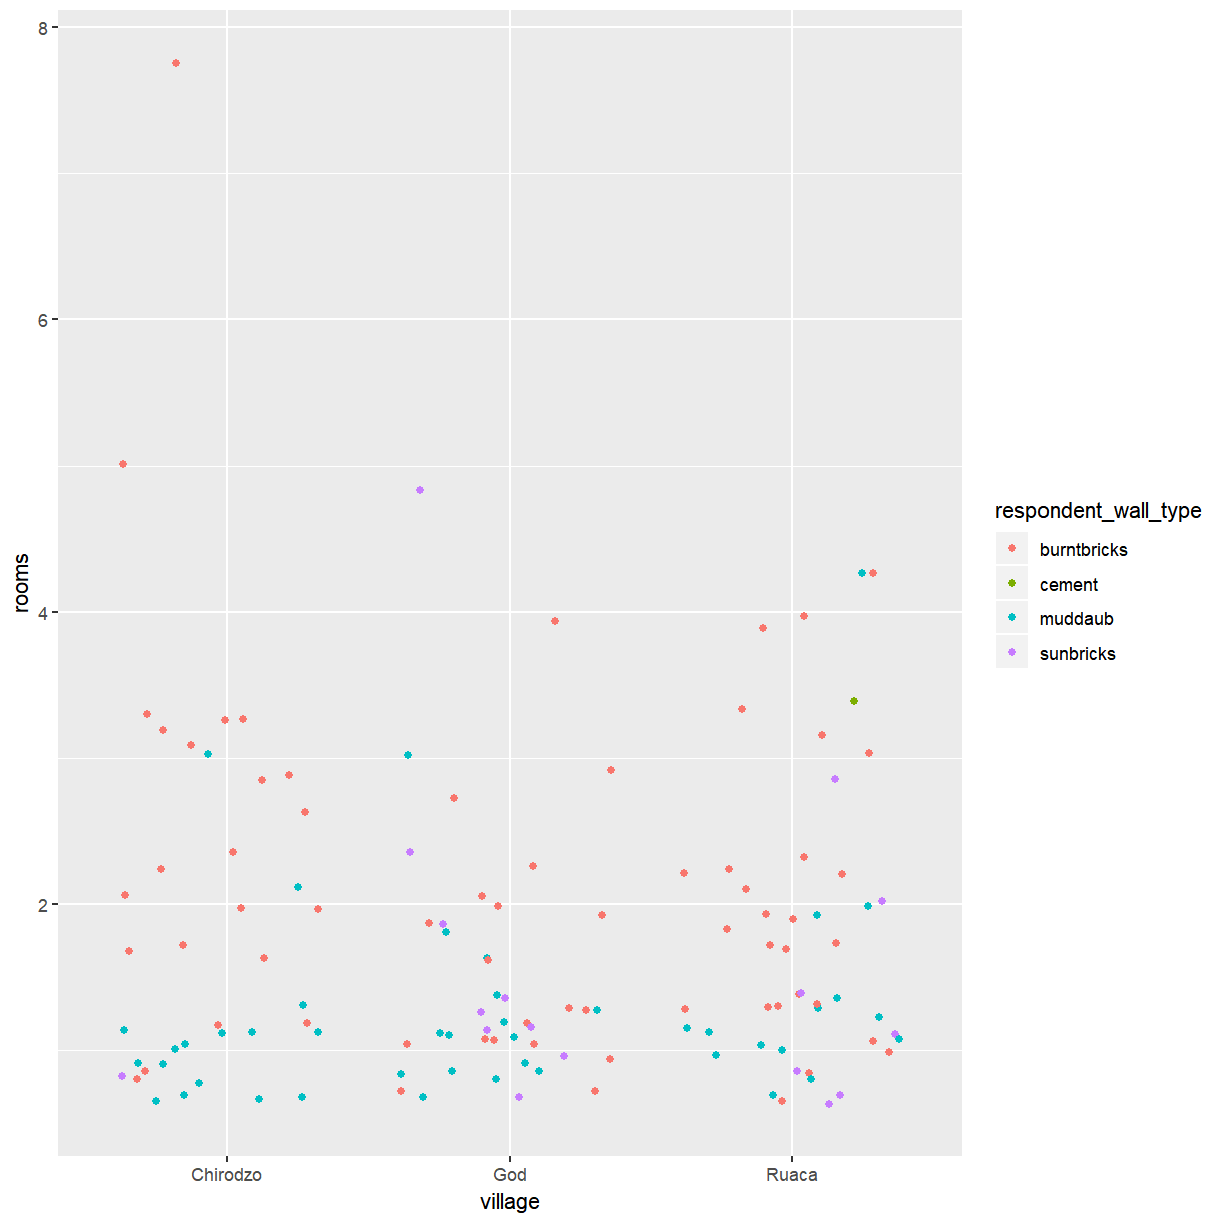
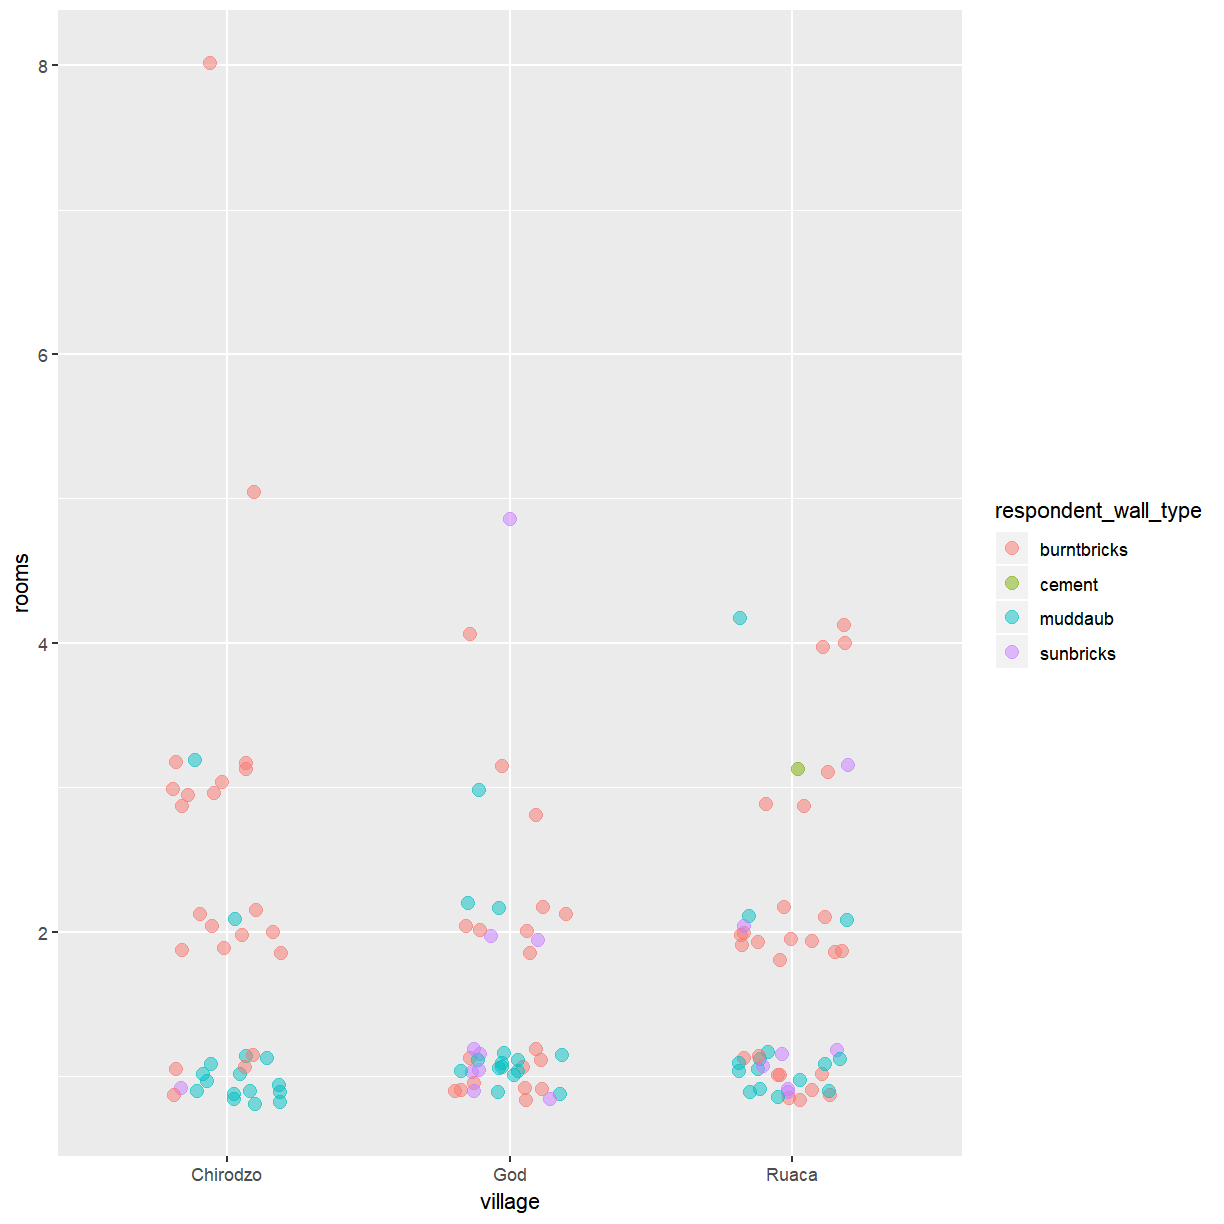
Add histograms

diff --git a/_episodes/01-continuous-data.md b/_episodes/01-continuous-data.md
@@ -2,8 +2,8 @@
 # Please do not edit this file directly; it is auto generated.
 # Instead, please edit 01-continuous-data.md in _episodes_rmd/
 title: "Visualising continuous data with ggplot2"
-teaching: 120
-exercises: 60
+teaching: 60
+exercises: 30
 questions:
   - "What are the components of a ggplot?"
   - "How do I create histograms, density plots, and scatterplots?"
@@ -384,11 +384,85 @@ ggplot(data = interviews_plotting, aes(x = no_membrs, y = number_items)) +
 > > 
 > > ~~~
 > > ggplot(data = interviews_plotting, aes(x = village, y = rooms)) +
-> > geom_jitter(aes(color = respondent_wall_type))
+> >     geom_jitter(aes(color = respondent_wall_type), alpha = 0.5, width = 0.2, height = 0.2, size = 3)
 > > ~~~
 > > {: .language-r}
 > > 
 > > <img src="../fig/rmd-01-scatter-challenge-1.png" title="plot of chunk scatter-challenge" alt="plot of chunk scatter-challenge" width="612" style="display: block; margin: auto;" />
+> {: .solution}
+{: .challenge}
+
+## Histograms and density plots
+
+While scatterplots are useful when exploring the relationship between two continuous
+variables, you may be interested in visualising the distribution of a single variable.
+Two plot types commonly used for this purpose are histograms and density plots.
+
+You can create histograms with *ggplot* using `geom_histogram()`. Let's take a look
+at the distribution of household size (`no_membrs`).
+
+
+~~~
+ggplot(data = interviews_plotting, aes(x = no_membrs)) +
+    geom_histogram()
+~~~
+{: .language-r}
+
+
+
+~~~
+`stat_bin()` using `bins = 30`. Pick better value with `binwidth`.
+~~~
+{: .output}
+
+<img src="../fig/rmd-01-room-histogram-1.png" title="plot of chunk room-histogram" alt="plot of chunk room-histogram" width="612" style="display: block; margin: auto;" />
+
+That doesn't look great. Histograms count the number of observations in a series of bins
+that cover the range of the data. When creating histograms you have to be mindful of 
+the effect the chosen bins have on the appearance of the plot. The most important rule 
+to keep in mind is that bins should always be of equal size. But even then the
+choice of break points can make a big difference. Since you know that there won't be
+any fractional household members it makes sense to set the bin width to 1.
+
+
+~~~
+ggplot(data = interviews_plotting, aes(x = no_membrs)) +
+    geom_histogram(binwidth=1)
+~~~
+{: .language-r}
+
+<img src="../fig/rmd-01-room-histogram-breaks-1.png" title="plot of chunk room-histogram-breaks" alt="plot of chunk room-histogram-breaks" width="612" style="display: block; margin: auto;" />
+
+That's a bit better but it is difficult to distinguish adjacent bars of the same hight.
+That is easily fixed by setting `color = "white"`.
+
+
+
+~~~
+ggplot(data = interviews_plotting, aes(x = no_membrs)) +
+    geom_histogram(binwidth=1, color="white")
+~~~
+{: .language-r}
+
+<img src="../fig/rmd-01-room-histogram-border-1.png" title="plot of chunk room-histogram-border" alt="plot of chunk room-histogram-border" width="612" style="display: block; margin: auto;" />
+
+> ## Exercise
+> 
+> It might be more interesting to look at household size by village. Create a plot
+> with separate histograms for each village.
+>
+> **Hint:** Use `fill` to get different colored bars.
+>
+> > ## Solution
+> >
+> > 
+> > ~~~
+> > ggplot(data = interviews_plotting, aes(x = no_membrs, fill = village)) +
+> >     geom_histogram(binwidth=1, color="white")
+> > ~~~
+> > {: .language-r}
+> > 
+> > <img src="../fig/rmd-01-room-histogram-challenge-1.png" title="plot of chunk room-histogram-challenge" alt="plot of chunk room-histogram-challenge" width="612" style="display: block; margin: auto;" />
 > {: .solution}
 {: .challenge}
 
